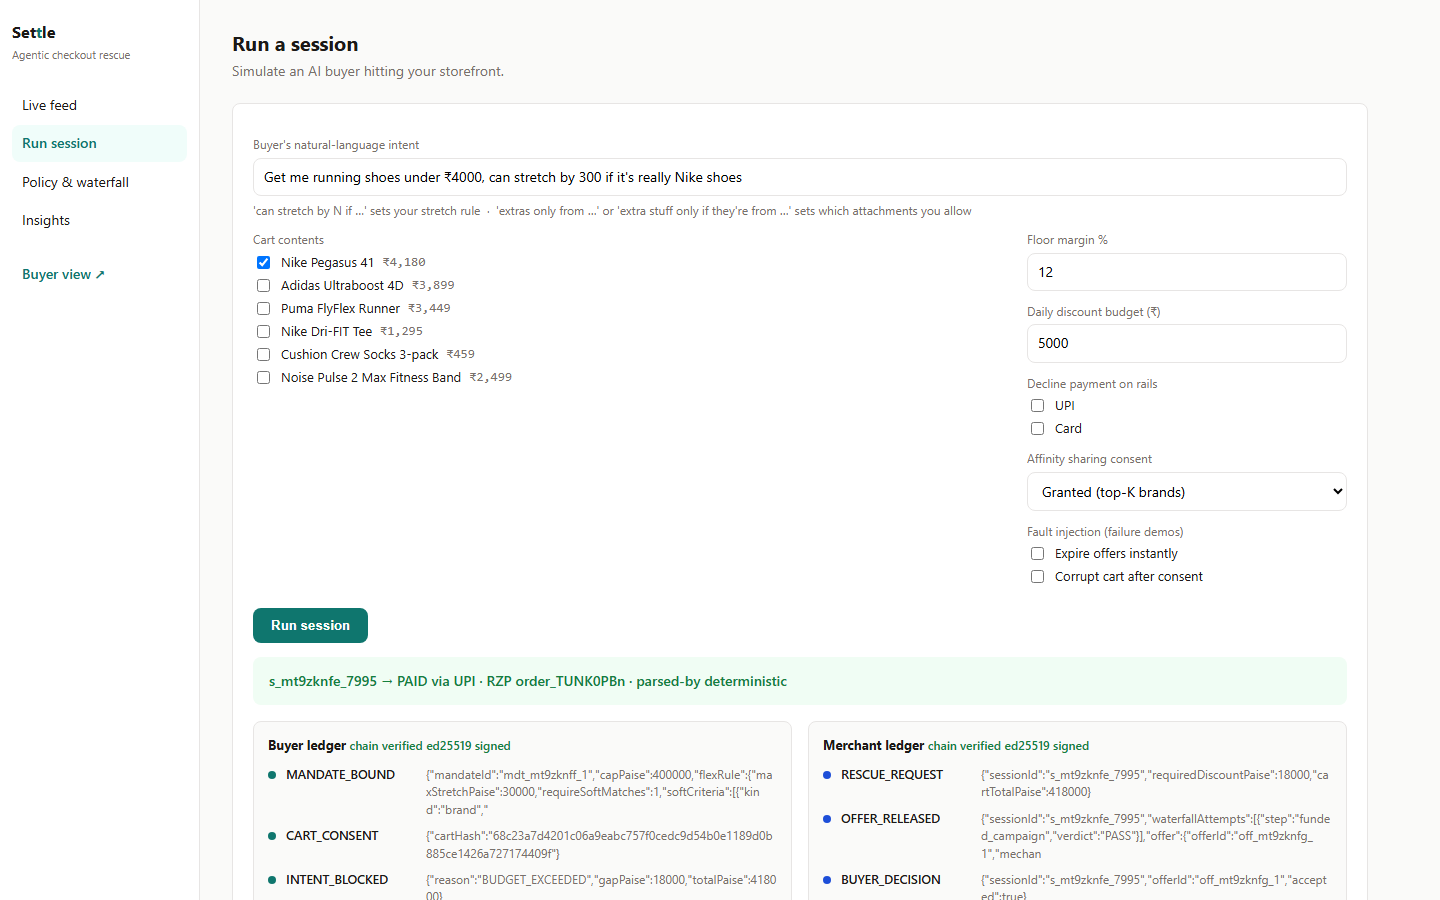
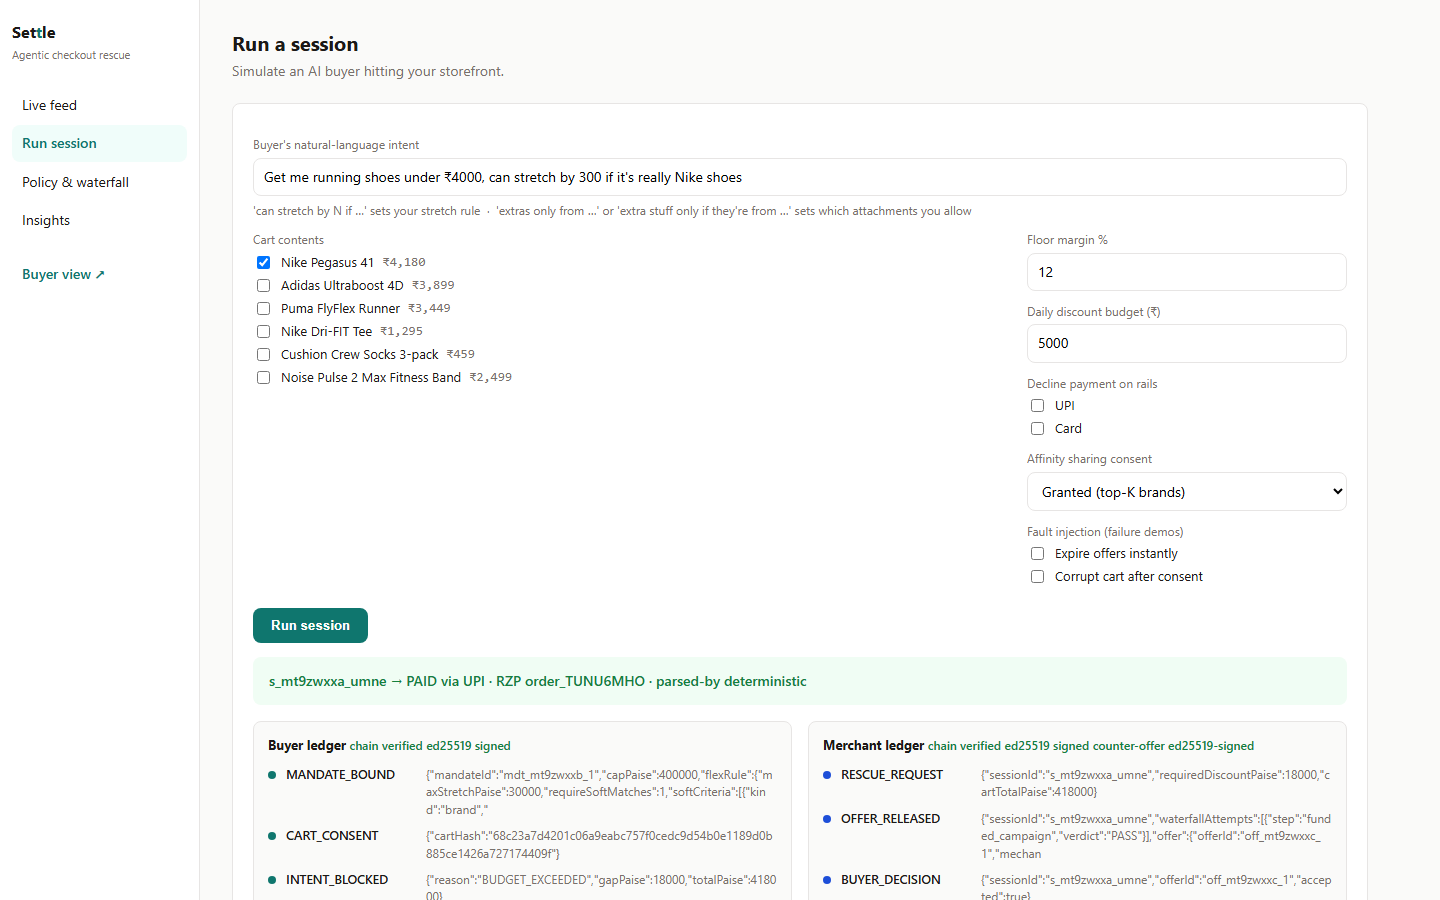
feat(protocol): signed counter-offers, ACP-flavored feed, protocol map doc

diff --git a/tests/signing.test.ts b/tests/signing.test.ts
@@ -1,6 +1,6 @@
 import { test } from "node:test";
 import assert from "node:assert/strict";
-import { generateSigningKeyPair, signTip, verifyTipSignature } from "../src/audit/signing.js";
+import { generateSigningKeyPair, signTip, verifyTipSignature, verifyPayloadSignature } from "../src/audit/signing.js";
 import { runSession } from "../src/negotiation/session.js";
 import { buildMandate, parseIntentDeterministic, cartHash } from "../src/buyer/parser.js";
 import { SimulatedExecutor } from "../src/payments/executor.js";
@@ -42,6 +42,61 @@ test("signed session produces verifiable tips on both ledgers", async () => {
   assert.ok(r.tipSignatures.merchant);
   assert.equal(verifyTipSignature(r.tipSignatures.buyer!.hash, r.tipSignatures.buyer!.signature, keys.publicKeyPem), true);
   assert.equal(verifyTipSignature(r.tipSignatures.merchant!.hash, r.tipSignatures.merchant!.signature, keys.publicKeyPem), true);
+});
+
+test("released counter-offers carry verifiable ed25519 signatures", async () => {
+  const intent = "Get me running shoes under ₹4000";
+  const mandate = buildMandate(
+    "u_offer_1",
+    intent,
+    parseIntentDeterministic(intent),
+    cartHash(skus),
+    { dpdpAcceptedAt: new Date().toISOString(), affinitySharing: "none" },
+    new Date(now.getTime() - 60000)
+  );
+  const keys = generateSigningKeyPair();
+  const r = await runSession({
+    mandate,
+    cart: cartFor(skus),
+    policy: DEFAULT_POLICY,
+    releaseLedger: [],
+    buyerContext: buyerContextFor(skus),
+    signingKeys: keys,
+    now,
+  });
+  const ev = r.merchantLedger.all().find((e) => e.kind === "OFFER_RELEASED");
+  assert.ok(ev, "expected an offer release event");
+  const signed = (ev!.event as { signedOffer: Record<string, unknown> | null }).signedOffer;
+  assert.ok(signed, "signedOffer artifact missing");
+  assert.equal(signed!["type"], "settle.counter_offer.v1");
+  assert.equal(signed!["alg"], "ed25519");
+  const { signature, ...artifact } = signed as { signature: string } & Record<string, unknown>;
+  assert.equal(verifyPayloadSignature(artifact, signature, keys.publicKeyPem), true);
+  const tampered = { ...artifact, offer: { ...(artifact.offer as Record<string, unknown>), newTotalPaise: 1 } };
+  assert.equal(verifyPayloadSignature(tampered, signature, keys.publicKeyPem), false);
+});
+
+test("without signing keys, offers are released unsigned", async () => {
+  const intent = "Get me running shoes under ₹4000";
+  const mandate = buildMandate(
+    "u_offer_2",
+    intent,
+    parseIntentDeterministic(intent),
+    cartHash(skus),
+    { dpdpAcceptedAt: new Date().toISOString(), affinitySharing: "none" },
+    new Date(now.getTime() - 60000)
+  );
+  const r = await runSession({
+    mandate,
+    cart: cartFor(skus),
+    policy: DEFAULT_POLICY,
+    releaseLedger: [],
+    buyerContext: buyerContextFor(skus),
+    now,
+  });
+  const ev = r.merchantLedger.all().find((e) => e.kind === "OFFER_RELEASED");
+  assert.ok(ev, "expected an offer release event");
+  assert.equal((ev!.event as { signedOffer: unknown }).signedOffer, null);
 });
 
 test("idempotency: same key replays cached success instead of charging twice", async () => {

diff --git a/public/index.html b/public/index.html
@@ -224,11 +224,12 @@ function showTrace(r) {
   const parser = r.parsedBy ? " · parsed-by " + (r.parsedBy === "llm" ? "llm(validated)" : "deterministic") : "";
   banner.textContent = `${r.sessionId} → ${r.outcome}${r.paidVia ? " via " + r.paidVia.toUpperCase() : ""}${rzp}${r.reason ? " (" + r.reason + ")" : ""}${parser}`;
   const sigBadge = (s) => s ? ' <span class="verify-badge ok">ed25519 signed</span>' : "";
+  const offerSigBadge = (r) => (r.merchantEvents ?? []).some(e => e.event && e.event.signedOffer) ? ' <span class="verify-badge ok">counter-offer ed25519-signed</span>' : "";
   $("#trace-wrap").innerHTML = `
     <div class="trace" data-testid="trace">
       <div class="tcol"><h3>Buyer ledger <span class="verify-badge ${r.chainsVerified ? "ok" : "bad"}">${r.chainsVerified ? "chain verified" : "TAMPERED"}</span>${sigBadge(r.tipSignatures?.buyer)}</h3>
         ${r.buyerEvents.map(evLine).join("")}</div>
-      <div class="tcol"><h3>Merchant ledger <span class="verify-badge ${r.chainsVerified ? "ok" : "bad"}">${r.chainsVerified ? "chain verified" : "TAMPERED"}</span>${sigBadge(r.tipSignatures?.merchant)}</h3>
+      <div class="tcol"><h3>Merchant ledger <span class="verify-badge ${r.chainsVerified ? "ok" : "bad"}">${r.chainsVerified ? "chain verified" : "TAMPERED"}</span>${sigBadge(r.tipSignatures?.merchant)}${offerSigBadge(r)}</h3>
         ${r.merchantEvents.map(evLine).join("")}</div>
     </div>` +
     (r.receipt ? `<div class="panel" style="margin-top:16px" data-testid="receipt"><h3 style="margin:0 0 8px;font-size:13px">Session receipt <span class="chip info"><i></i>AI-generated · post-hoc · outside audit chain</span></h3><p style="margin:0">${esc(r.receipt.text)}</p></div>` : "");

diff --git a/src/negotiation/session.ts b/src/negotiation/session.ts
@@ -8,7 +8,7 @@ import { SimulatedExecutor, type PaymentExecutor } from "../payments/executor.js
 import { evaluateCrossSell } from "../buyer/crosssell-decision.js";
 import { cartHash } from "../buyer/parser.js";
 import { pseudonymize } from "../buyer/memory.js";
-import { signTip, type SigningKeyPair } from "../audit/signing.js";
+import { signTip, signPayload, type SigningKeyPair } from "../audit/signing.js";
 
 export interface TipSignature {
   hash: string;
@@ -103,12 +103,25 @@ export async function runSession(input: SessionInput): Promise<SessionOutcome> {
     offerTtlMs: input.offerTtlMs,
     campaigns: input.campaigns,
   });
+  const signedOfferEvent = (() => {
+    if (!wf.offer || !keys) return null;
+    const artifact = {
+      type: "settle.counter_offer.v1" as const,
+      alg: "ed25519" as const,
+      signerKeyId: input.policy.merchantId,
+      mandateId: mandate.mandateId,
+      cartHash: mandate.cartHashAtConsent,
+      offer: wf.offer,
+    };
+    return { ...artifact, signature: signPayload(artifact, keys.privateKeyPem) };
+  })();
   merchantLedger.append(
     wf.offer ? "OFFER_RELEASED" : "NO_OFFER",
     {
       sessionId,
       waterfallAttempts: wf.attempts.map((a) => ({ step: a.step, verdict: a.gate.trace.verdict })),
       offer: wf.offer,
+      signedOffer: signedOfferEvent,
     },
     now
   );

diff --git a/public/buyer.html b/public/buyer.html
@@ -301,9 +301,11 @@ function renderResult(request, data) {
   $("#timeline-panel").classList.remove("hidden");
 
   $("#bill").innerHTML = billRows(request, data);
+  const offerSigned = (data.merchantEvents ?? []).some(e => e.event && e.event.signedOffer);
   $("#trust-line").innerHTML =
     `<span class="verify-badge ${data.verified ? "ok" : "bad"}" data-testid="verified-badge">${data.verified ? "✓ both audit chains verified" : "TAMPERED"}</span>` +
     (data.tipSignatures?.buyer && data.tipSignatures?.merchant ? ' <span class="verify-badge ok">· ed25519 signed ledger tips</span>' : "") +
+    (offerSigned ? ' <span class="verify-badge ok">· counter-offer signed by merchant (ed25519)</span>' : "") +
     (data.parsedBy ? ` <span class="verify-badge" style="color:var(--muted)">· intent read by ${data.parsedBy === "llm" ? "LLM (schema-validated)" : "deterministic parser"}</span>` : "");
   $("#bill-panel").classList.remove("hidden");
 

diff --git a/src/server/api.ts b/src/server/api.ts
@@ -117,6 +117,25 @@ const server = createServer(async (req, res) => {
     return;
   }
 
+  if (req.method === "GET" && url.pathname === "/acp/feed") {
+    send(res, 200, {
+      protocol: "settle.agentic-feed",
+      flavor: "ACP-inspired",
+      version: "2026-08-26",
+      merchant: { id: DEFAULT_POLICY.merchantId, name: "Settle Demo Store", currency: "INR" },
+      items: CATALOG.map((p) => ({
+        id: p.sku,
+        title: p.title,
+        brand: p.brand,
+        category: p.category,
+        price: { value: p.pricePaise / 100, currency: "INR" },
+        payment_rails_supported: ["upi", "card", "netbanking", "wallet"],
+        settle_negotiation: { rescue_eligible: true, attachment_eligible: p.category !== "electronics" },
+      })),
+    });
+    return;
+  }
+
   if (req.method === "GET" && url.pathname === "/api/feed") {
     send(res, 200, { records: recentRecords(), metrics: computeMetrics() });
     return;

diff --git a/src/audit/signing.ts b/src/audit/signing.ts
@@ -1,4 +1,5 @@
 import { generateKeyPairSync, sign as cryptoSign, verify as cryptoVerify, createPrivateKey, createPublicKey } from "node:crypto";
+import { sha256 } from "../core/hash.js";
 
 export interface SigningKeyPair {
   privateKeyPem: string;
@@ -24,4 +25,12 @@ export function verifyTipSignature(tipHash: string, signatureB64: string, public
   } catch {
     return false;
   }
+}
+
+export function signPayload(payload: unknown, privateKeyPem: string): string {
+  return signTip(sha256(payload), privateKeyPem);
+}
+
+export function verifyPayloadSignature(payload: unknown, signatureB64: string, publicKeyPem: string): boolean {
+  return verifyTipSignature(sha256(payload), signatureB64, publicKeyPem);
 }

diff --git a/docs/protocol-map.md b/docs/protocol-map.md
@@ -1,0 +1,39 @@
+# Settle × the 2026 agentic-commerce protocol stack
+
+**Position: aligned, not certified.** UAP is still being drafted by NPCI, AP2 is maturing inside the FIDO Alliance, and ACP is versioned monthly by OpenAI and Stripe. Settle does not claim conformance with any of them. What it does claim: every artifact Settle emits has a named counterpart in the emerging stack, so the commercial layer drops onto whichever protocol wins without redesign.
+
+## The layer model
+
+| Layer | Protocols | Job |
+|---|---|---|
+| Authorization | NPCI **UAP**, Google **AP2** | Prove a human pre-approved what the agent is doing, within what limits |
+| Commerce / checkout | OpenAI+Stripe **ACP**, Google+Shopify **UCP** | Discovery, cart assembly, checkout session between agent and merchant |
+| Settlement | **Razorpay Orders API**, UPI (UPI Reserve Pay / Circle delegation), x402 / MPP elsewhere | Move the money |
+
+Protocols standardize transport and consent. **Nobody ships the commercial intelligence layer** — what a merchant does when an authorized agent's budget doesn't fit the cart. That is the layer Settle occupies, and it is protocol-agnostic by construction.
+
+## Artifact mapping
+
+| Settle artifact | Closest protocol concept | Status here |
+|---|---|---|
+| Buyer mandate — hard cap, declared flex rule, extras rule, 15-min expiry, DPDP consent | AP2 **Intent Mandate** constraints · UAP user-defined permissions (per-transaction limit, permitted circumstances) | `src/types/mandate.ts` — semantics aligned; buyer-side cryptographic signature is future work (in this demo the mandate arrives over trusted transport) |
+| `cartHashAtConsent` binding (sha256 over canonical cart) | AP2 **Cart Mandate** `checkout_hash` binding — prevents paying for anything but the consented cart | Implemented; verified pre-payment (`cartHashMatches`), drift aborts the session |
+| `settle.counter_offer.v1` — ed25519-signed offer artifact (offer, mandate id, cart hash, signer key id) | AP2 merchant-signed **Checkout JWT → Checkout Receipt**; ACP checkout session responses | Implemented in `src/negotiation/session.ts` + `src/audit/signing.ts`; signature is embedded in the merchant ledger event. AP2 specifies SD-JWT/ECDSA — a format delta, not a model delta |
+| Dual append-only hash-chained ledgers + per-session ed25519-signed tips | AP2's non-repudiable mandate chain for **dispute resolution** | Implemented; tamper-evident + tamper-**attributable**; verified live in both UIs |
+| `GET /acp/feed` — machine-readable catalog with rails + negotiation metadata | ACP **product feed** | Inspired subset; enough for an agent to discover the store is transactable |
+| Accepted settlements → `POST /v1/orders` (test mode) | Settlement rail | Real Razorpay REST; order ids recorded inside the audit ledgers |
+| Consent-scoped affinity memory (`anonymized_topk`) | UAP authorization scope · DPDP consent framing | Implemented at mandate level; non-consented sessions never enter merchant insights |
+
+## What UAP adds on top (and where Settle plugs in)
+
+NPCI's proposed UAP is a **registry-verify-authorize** trust fabric over unchanged UPI rails, built on UPI Circle delegation: agents register, are verified per transaction category, and operate inside user-granted permission scopes. Settle is the merchant-side consumer of that world:
+
+- The mandate Settle negotiates inside **is** the permission scope UAP enforces — same shape (caps, categories, circumstances).
+- Settle's guardrails (floor margin, daily budget, cooldown) are the merchant's mirror of UAP's buyer-side limits.
+- The signed ledgers give NPCI-style auditability at the commercial layer — who offered what, funded by whom, accepted by whom.
+
+## Deliberate non-goals
+
+- **No protocol certification claims** — the specs move monthly; the mapping table is the honest artifact.
+- **No SD-JWT/ECDSA** — ed25519 over canonical JSON is the same trust model with a simpler format; swapping formats touches one file.
+- **No stablecoin rails** (x402/MPP) — out of scope for an INR merchant demo; the waterfall is rail-agnostic by design.
